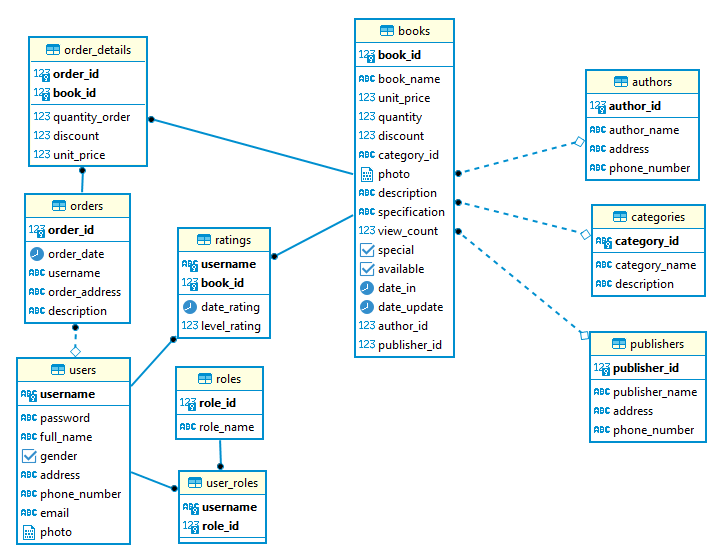
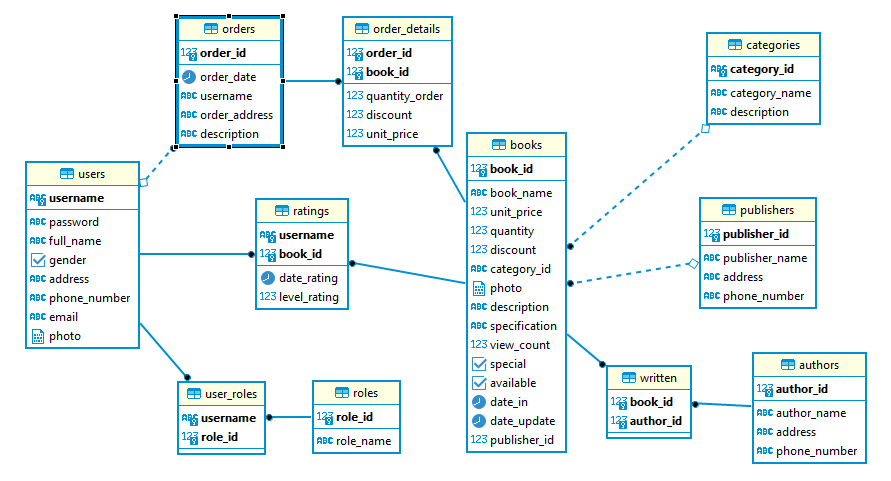
update diagram and updating-deleting book

diff --git a/onlinebookshop/src/main/java/com/example/onlinebookshop/model/Book.java b/onlinebookshop/src/main/java/com/example/onlinebookshop/model/Book.java
@@ -3,8 +3,10 @@ package com.example.onlinebookshop.model;
 import java.util.Collection;
 import java.util.Date;
 import java.util.HashSet;
+import java.util.Objects;
 import java.util.Set;
 
+import javax.persistence.CascadeType;
 import javax.persistence.Column;
 import javax.persistence.Entity;
 import javax.persistence.FetchType;
@@ -29,73 +31,71 @@ import org.springframework.format.annotation.DateTimeFormat;
 import com.fasterxml.jackson.annotation.JsonIgnore;
 
 @Entity
-@Table(name="books", schema="public")
+@Table(name = "books", schema = "public")
 public class Book {
 	@Id
-	@GeneratedValue(strategy=GenerationType.IDENTITY)
-	@Column(name="book_id")
+	@GeneratedValue(strategy = GenerationType.IDENTITY)
+	@Column(name = "book_id")
 	private Long bookId;
-	@Column(name="book_name")
+	@Column(name = "book_name")
 	@NotBlank
 	private String bookName;
-	@Column(name="unit_price")
-	@DecimalMin(value="0", message="Price must be not under 0")
+	@Column(name = "unit_price")
+	@DecimalMin(value = "0", message = "Price must be not under 0")
 	private Float unitPrice;
-	@Column(name="quantity")
-	@DecimalMin(value="0", message="Quantity must be not under 0")
+	@Column(name = "quantity")
+	@DecimalMin(value = "0", message = "Quantity must be not under 0")
 	private Long quantity;
-	@Column(name="discount")
-	@DecimalMin(value="0", message="Discount must be not under 0%")
-	@DecimalMax(value="0.7", message="Discount must be not over 70%")
+	@Column(name = "discount")
+	@DecimalMin(value = "0", message = "Discount must be not under 0%")
+	@DecimalMax(value = "0.7", message = "Discount must be not over 70%")
 	private Float discount;
-	@Column(name="photo")
+	@Column(name = "photo")
 	private byte[] photo;
-	@Column(name="description")
+	@Column(name = "description")
 	private String description;
-	@Column(name="specification")
+	@Column(name = "specification")
 	private String specification;
-	@Column(name="view_count")
-	@DecimalMin(value="0", message="No. view must be not under 0")
+	@Column(name = "view_count")
+	@DecimalMin(value = "0", message = "No. view must be not under 0")
 	private Long viewCount;
-	@Column(name="special")
+	@Column(name = "special")
 	private Boolean special;
-	@Column(name="available")
+	@Column(name = "available")
 	private Boolean available;
-	@Column(name="date_in")
+	@Column(name = "date_in")
 	@Temporal(TemporalType.DATE)
-	@DateTimeFormat(pattern="dd/MM/yyyy")
-	@Past(message="Not allow to choose day in future")
+	@DateTimeFormat(pattern = "dd/MM/yyyy")
+	@Past(message = "Not allow to choose day in future")
 	private Date dateIn;
-	@Column(name="date_update")
+	@Column(name = "date_update")
 	@Temporal(TemporalType.DATE)
-	@DateTimeFormat(pattern="dd/MM/yyyy")
-	@Past(message="Not allow to choose day in future")
+	@DateTimeFormat(pattern = "dd/MM/yyyy")
+	@Past(message = "Not allow to choose day in future")
 	private Date dateUpdate;
-	
+
 	@ManyToOne
-	@JoinColumn(name="category_id")
+	@JoinColumn(name = "category_id")
 	@JsonIgnore
 	private Category category;
-	
+
 	@ManyToOne
-	@JoinColumn(name="publisher_id")
-	@JsonIgnore
+	@JoinColumn(name = "publisher_id")
+	// @JsonIgnore
 	private Publisher publisher;
-	
-	@ManyToMany(fetch = FetchType.LAZY)
-    @JoinTable(name = "written",
-            joinColumns = @JoinColumn(name = "book_id"),
-            inverseJoinColumns = @JoinColumn(name = "author_id"))
-    private Set<Author> authors = new HashSet<>();
-	
-	@OneToMany(mappedBy="book", fetch=FetchType.EAGER)
+
+	@ManyToMany(fetch = FetchType.LAZY, cascade = { CascadeType.MERGE, CascadeType.PERSIST, CascadeType.REFRESH })
+	@JoinTable(name = "written", joinColumns = @JoinColumn(name = "book_id"), inverseJoinColumns = @JoinColumn(name = "author_id"))
+	private Set<Author> authors = new HashSet<>();
+
+	@OneToMany(mappedBy = "book", fetch = FetchType.EAGER)
 	private Collection<OrderDetail> orderDetails;
-	
-	@OneToMany(mappedBy="book", fetch=FetchType.EAGER)
+
+	@OneToMany(mappedBy = "book", fetch = FetchType.EAGER)
 	private Collection<Ratings> ratings;
-	
+
 	public Book() {
-		
+
 	}
 
 	public Book(Long bookId, @NotBlank String bookName,
@@ -271,5 +271,47 @@ public class Book {
 
 	public void setRatings(Collection<Ratings> ratings) {
 		this.ratings = ratings;
+	}
+
+	public void update(Book book) {
+		this.setBookName(book.getBookName());
+		this.setDescription(book.getDescription());
+		this.setDiscount(book.getDiscount());
+		this.setAvailable(book.getAvailable());
+		this.setPhoto(book.getPhoto());
+
+		this.setQuantity(book.getQuantity());
+		this.setUnitPrice(book.getUnitPrice());
+		this.setSpecial(book.getSpecial());
+		this.setSpecification(book.getSpecification());
+		this.setViewCount(book.getViewCount());
+//		this.setDateUpdate(new Date());
+
+		this.setCategory(book.getCategory());
+		this.setAuthors(book.getAuthors());
+
+		this.setPublisher(book.getPublisher());
+	}
+	
+	@Override
+	public int hashCode() {
+		return Objects.hash(bookId);
+	}
+
+	@Override
+	public boolean equals(Object obj) {
+		if (this == obj)
+			return true;
+		if (obj == null)
+			return false;
+		if (getClass() != obj.getClass())
+			return false;
+		Book other = (Book) obj;
+		return Objects.equals(bookId, other.bookId);
+	}
+
+	@Override
+	public String toString() {
+		return "Book [" + ", id=" + bookId + ", name=" + bookName + "description: " + description + "]";
 	}
 }

diff --git a/onlinebookshop/src/main/java/com/example/onlinebookshop/service/BookServiceImpl.java b/onlinebookshop/src/main/java/com/example/onlinebookshop/service/BookServiceImpl.java
@@ -1,16 +1,11 @@
 package com.example.onlinebookshop.service;
 
-import java.text.SimpleDateFormat;
 import java.util.ArrayList;
-import java.util.Collection;
 import java.util.Date;
-import java.util.HashSet;
 import java.util.List;
 import java.util.Optional;
-import java.util.Set;
 import java.util.stream.Collectors;
 
-import org.modelmapper.ModelMapper;
 import org.springframework.beans.factory.annotation.Autowired;
 import org.springframework.stereotype.Service;
 
@@ -19,9 +14,7 @@ import com.example.onlinebookshop.exception.ResourceNotFoundException;
 import com.example.onlinebookshop.model.Author;
 import com.example.onlinebookshop.model.Book;
 import com.example.onlinebookshop.model.Category;
-import com.example.onlinebookshop.model.OrderDetail;
 import com.example.onlinebookshop.model.Publisher;
-import com.example.onlinebookshop.model.Ratings;
 import com.example.onlinebookshop.model.dto.BookDTO;
 import com.example.onlinebookshop.repository.BookRepository;
 import com.example.onlinebookshop.repository.CategoryRepository;
@@ -119,24 +112,6 @@ public class BookServiceImpl implements BookService {
 			bookDTO.setAuthorIds(authorIds);
 		}
 
-//		List<Ratings> ratings = new ArrayList<>(book.getRatings());
-//		if (ratings.size() > 0) {
-//			String[] ratingIds = new String[ratings.size()];
-//			for (int index = 0; index < ratingIds.length; index++) {
-//				ratingIds[index] = String.valueOf(ratings.get(index).getRatingId());
-//			}
-//			bookDTO.setRatingIds(ratingIds);
-//		}
-
-//		List<OrderDetail> orderDetails = new ArrayList<>(book.getOrderDetails());
-//		if (orderDetails.size() > 0) {
-//			String[] orderDetailIds = new String[orderDetails.size()];
-//
-//			for (int index = 0; index < orderDetailIds.length; index++) {
-//				orderDetailIds[index] = String.valueOf(orderDetails.get(index).getOrderDetailID());
-//			}
-//			bookDTO.setOrderDetailIds(orderDetailIds);
-//		}
 		return bookDTO;
 	}
 
@@ -167,25 +142,46 @@ public class BookServiceImpl implements BookService {
 		List<Integer> listAuthorIds = OnlinebookshopApplication.convertStringArrToIntArr(authorIds);
 		List<Author> listAuthor = authorService.findAllById(listAuthorIds);
 		book.setAuthors(listAuthor.stream().collect(Collectors.toSet()));
-
-//		String[] orderDetaildIds = bookDTO.getOrderDetailIds();
-//		List<Integer> listOrderDetailsIds = OnlinebookshopApplication.convertStringArrToIntArr(orderDetaildIds);
-//		List<OrderDetail> listOrderDetail = 
 		
-//		String[] ratingIds = bookDTO.getRatingIds();
-		
-		if(book.getDateIn()==null){
-			book.setDateIn(new Date());
-		}
-		else{
-			book.setDateUpdate(new Date());
-		}
 		return book;
 	}
 
 	@Override
 	public Book saveBook(BookDTO bookDTO) {
 		Book book = convertBookDtoToBook(bookDTO);
+		book.setDateIn(new Date());
 		return bookRepository.save(book);
 	}
+
+	@Override
+	public Book updateBook(BookDTO bookDTO, Long id) {
+		Book book = getBookById(id).get();
+		BookDTO existedBookDTO = convertBookToDTO(book);
+		
+		existedBookDTO.setBookName(bookDTO.getBookName());
+		existedBookDTO.setCategoryName(bookDTO.getCategoryName());
+		existedBookDTO.setDescription(bookDTO.getDescription());
+		existedBookDTO.setDiscount(bookDTO.getDiscount());
+		existedBookDTO.setAvailable(bookDTO.getAvailable());
+		existedBookDTO.setPhoto(bookDTO.getPhoto());
+		existedBookDTO.setPublisherName(bookDTO.getPublisherName());
+		existedBookDTO.setQuantity(bookDTO.getQuantity());
+		existedBookDTO.setUnitPrice(bookDTO.getUnitPrice());
+		existedBookDTO.setSpecial(bookDTO.getSpecial());
+		existedBookDTO.setSpecification(bookDTO.getSpecification());
+		existedBookDTO.setViewCount(bookDTO.getViewCount());
+		existedBookDTO.setAuthorIds(bookDTO.getAuthorIds());
+		
+		Book updatingBook = convertBookDtoToBook(existedBookDTO);
+		updatingBook.setBookId(id);
+		updatingBook.setDateUpdate(new Date());
+		
+		return bookRepository.save(updatingBook);
+	}
+
+	@Override
+	public void deleteBook(Book book) {
+		bookRepository.delete(book);
+	}
+	
 }

diff --git a/onlinebookshop/src/main/java/com/example/onlinebookshop/controller/BookController.java b/onlinebookshop/src/main/java/com/example/onlinebookshop/controller/BookController.java
@@ -1,6 +1,5 @@
 package com.example.onlinebookshop.controller;
 
-import java.util.List;
 import java.util.Optional;
 import java.util.Set;
 
@@ -9,9 +8,11 @@ import javax.validation.Valid;
 import javax.validation.Validator;
 
 import org.springframework.beans.factory.annotation.Autowired;
+import org.springframework.http.HttpStatus;
+import org.springframework.http.ResponseEntity;
 import org.springframework.security.access.prepost.PreAuthorize;
 import org.springframework.web.bind.annotation.CrossOrigin;
-import org.springframework.web.bind.annotation.GetMapping;
+import org.springframework.web.bind.annotation.DeleteMapping;
 import org.springframework.web.bind.annotation.PathVariable;
 import org.springframework.web.bind.annotation.PostMapping;
 import org.springframework.web.bind.annotation.PutMapping;
@@ -48,7 +49,7 @@ public class BookController {
 
 	@PreAuthorize("hasRole('ADMIN')")
 	@PutMapping("books/{id}")
-	public Book updateBook(@Valid @RequestBody BookDTO bookDTO, @PathVariable Long id) {
+	public ResponseEntity<Book> updateBook(@Valid @RequestBody BookDTO bookDTO, @PathVariable Long id) {
 		Set<ConstraintViolation<BookDTO>> result = validator.validate(bookDTO);
 		if (!result.isEmpty()) {
 			// do here whatever you want with each validation violation.
@@ -56,6 +57,18 @@ public class BookController {
 			throw new CustomException("Check your input");
 		}
 		
-		return bookService.convertBookDtoToBook(bookDTO);
+		return new ResponseEntity<Book>(bookService.updateBook(bookDTO, id), HttpStatus.OK);
+	}
+	
+	@PreAuthorize("hasRole('ADMIN')")
+	@DeleteMapping("books/{id}")
+	public void deleteBook(@PathVariable Long id){
+		Optional<Book> bookOtp = bookService.getBookById(id);
+		Book book = bookOtp.get();
+		
+		if(book.getOrderDetails().size()==0 && book.getRatings().size()==0)
+			bookService.deleteBook(book);
+		else
+			throw new CustomException("Can not delete books having in order đetails or ratings!");
 	}
 }

diff --git a/onlinebookshop/src/main/java/com/example/onlinebookshop/model/Author.java b/onlinebookshop/src/main/java/com/example/onlinebookshop/model/Author.java
@@ -1,20 +1,13 @@
 package com.example.onlinebookshop.model;
 
-import java.util.Collection;
-import java.util.HashSet;
 import java.util.Set;
 
 import javax.persistence.Column;
 import javax.persistence.Entity;
-import javax.persistence.FetchType;
 import javax.persistence.GeneratedValue;
 import javax.persistence.GenerationType;
 import javax.persistence.Id;
-import javax.persistence.ManyToMany;
-import javax.persistence.OneToMany;
 import javax.persistence.Table;
-
-import com.fasterxml.jackson.annotation.JsonIgnore;
 
 @Entity
 @Table(name="authors", schema="public")
@@ -77,13 +70,4 @@ public class Author {
 	public void setPhoneNumber(String phoneNumber) {
 		this.phoneNumber = phoneNumber;
 	}
-
-//	public Set<Book> getBooks() {
-//		return books;
-//	}
-//
-//	public void setBooks(Set<Book> books) {
-//		this.books = books;
-//	}
-	
 }

diff --git a/onlinebookshop/src/main/java/com/example/onlinebookshop/service/impl/BookService.java b/onlinebookshop/src/main/java/com/example/onlinebookshop/service/impl/BookService.java
@@ -16,4 +16,6 @@ public interface BookService{
 	BookDTO convertBookToDTO(Book book);
 	Book convertBookDtoToBook(BookDTO bookDTO);
 	Book saveBook(BookDTO bookDTO);
+	Book updateBook(BookDTO bookDTO, Long id);
+	void deleteBook(Book book);
 }

diff --git a/onlinebookshop/src/main/java/com/example/onlinebookshop/model/Category.java b/onlinebookshop/src/main/java/com/example/onlinebookshop/model/Category.java
@@ -1,6 +1,5 @@
 package com.example.onlinebookshop.model;
 
-import java.util.Collection;
 import java.util.Objects;
 import java.util.Set;
 
